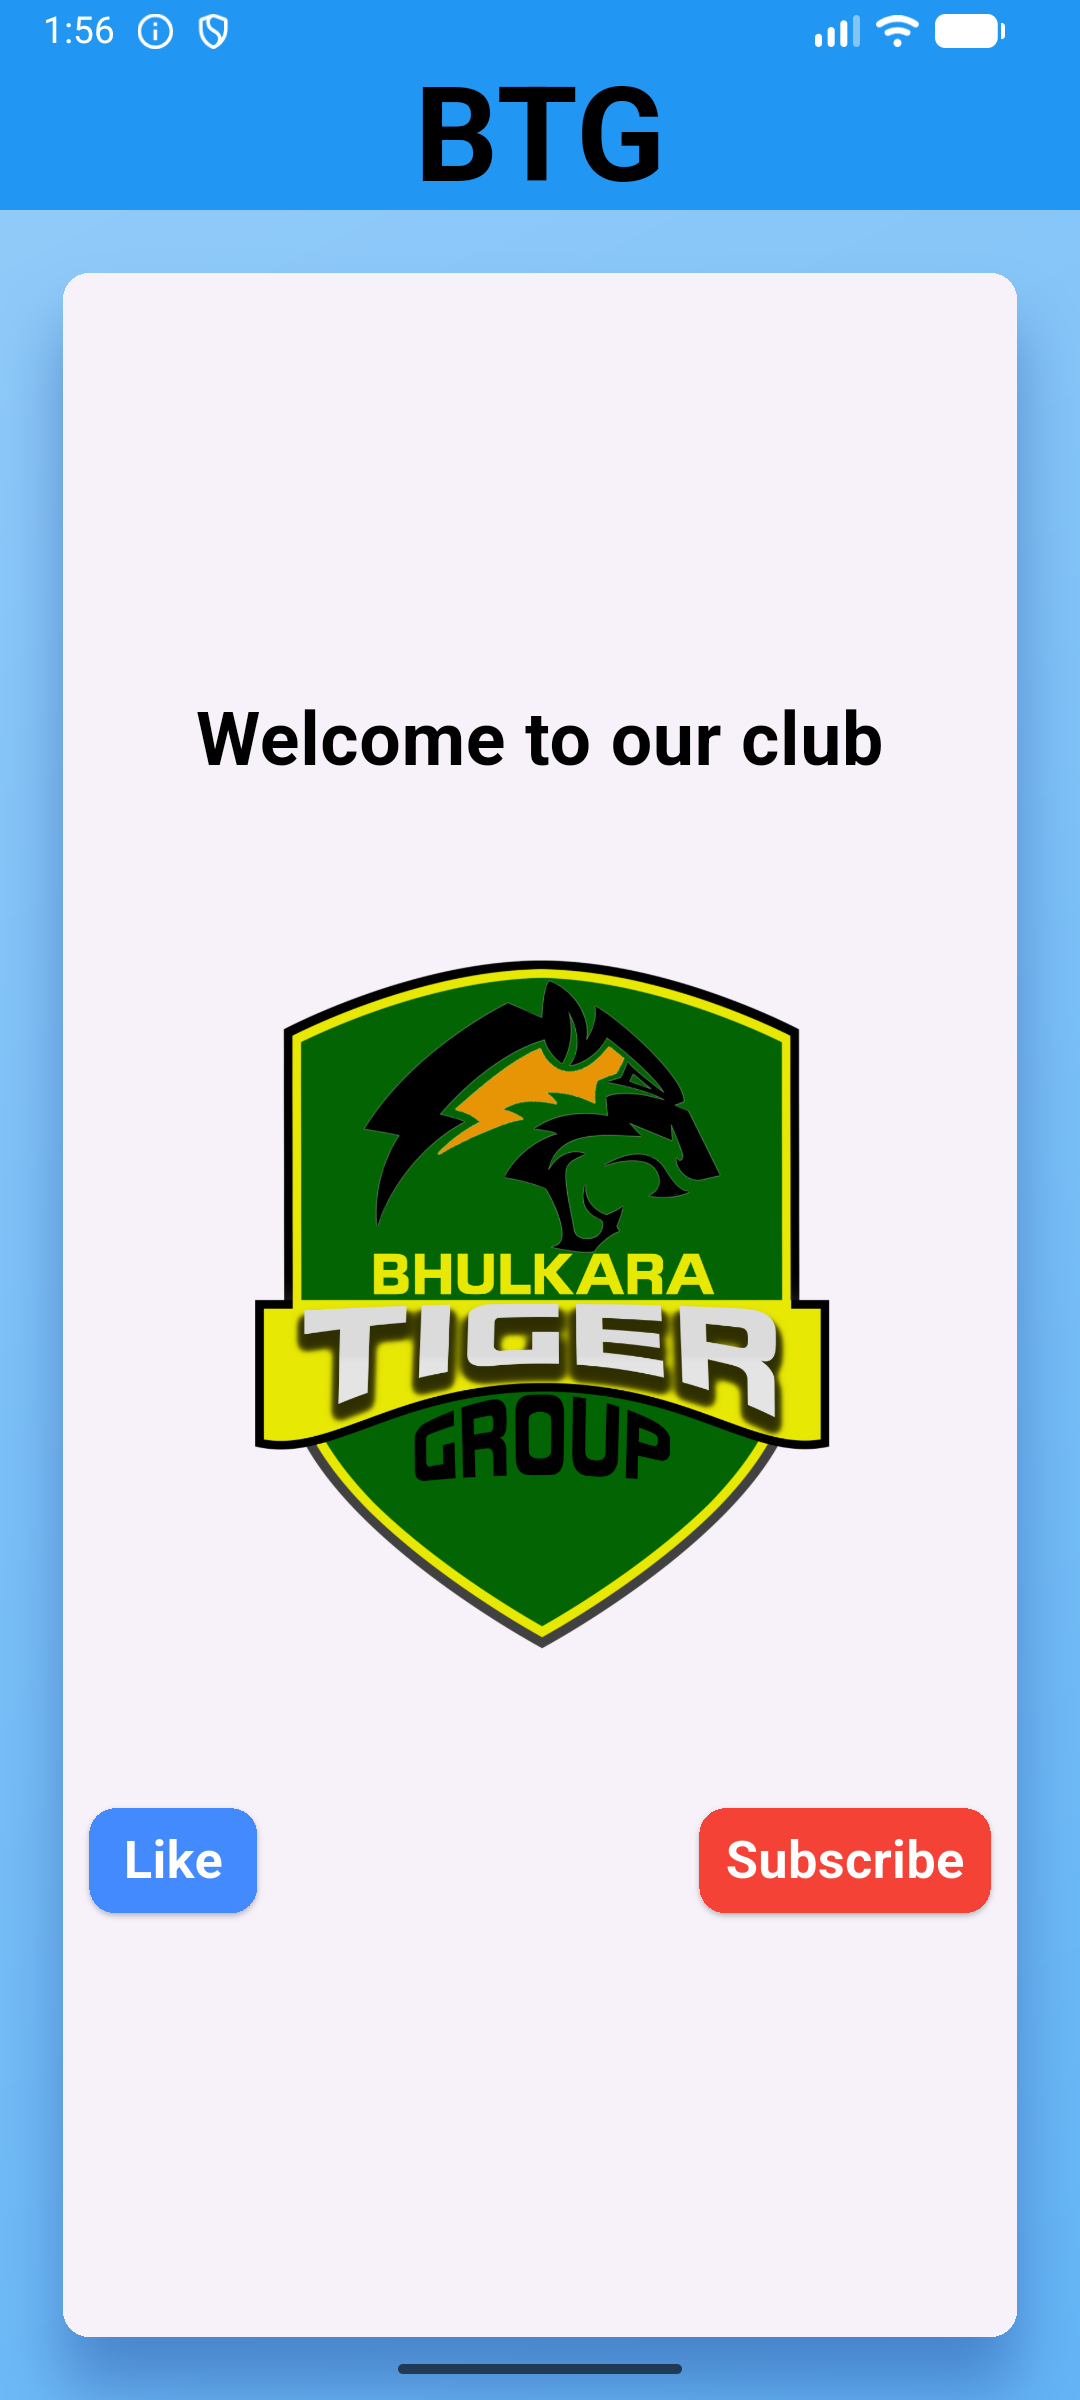
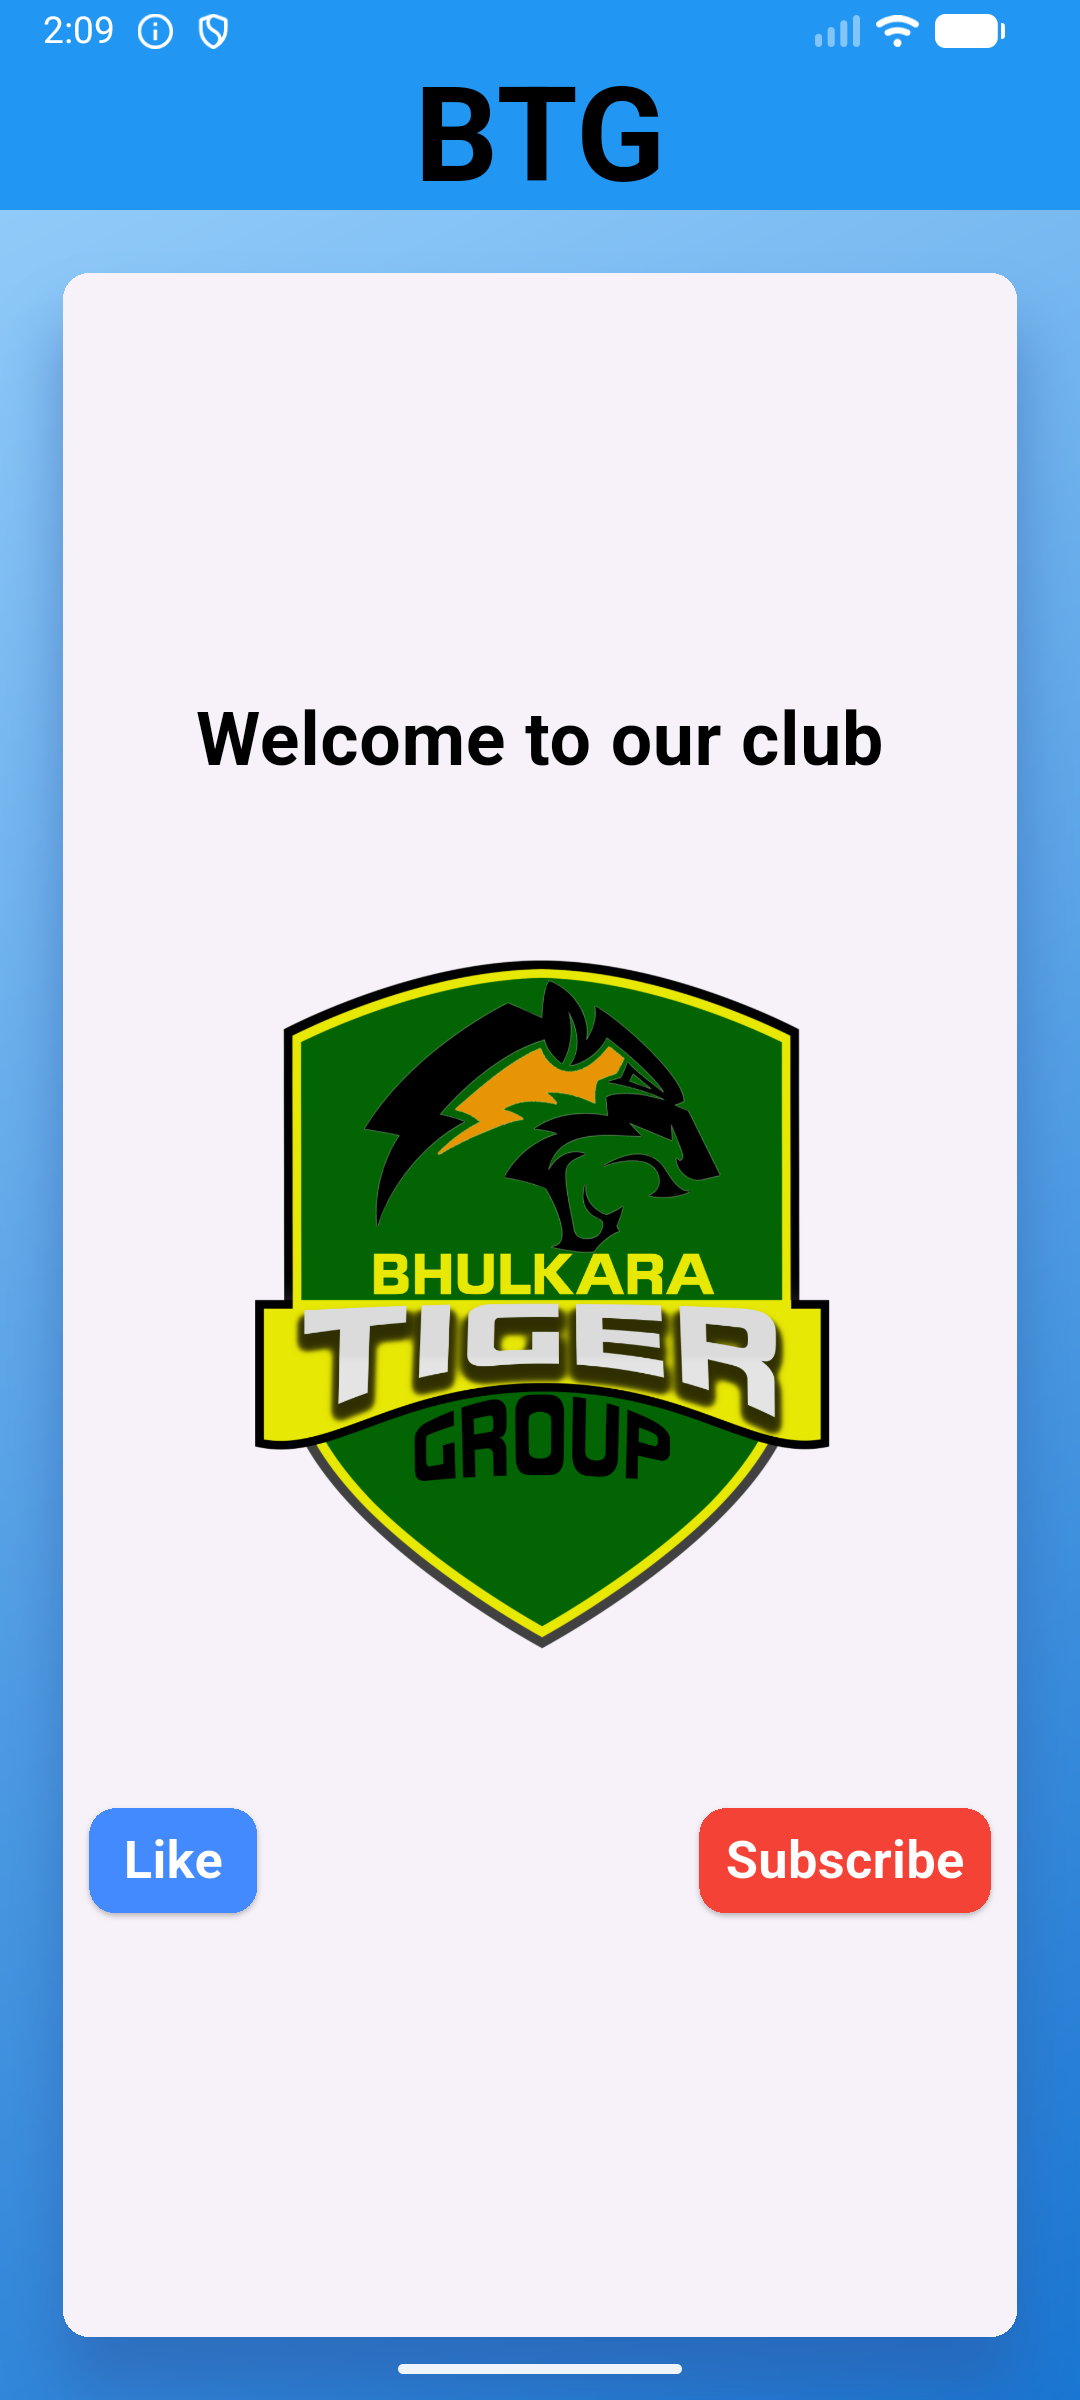
First app

Changed region(s): [[0.0, 0.2188, 1.0, 1.0], [0.0306, 0.0, 0.1222, 0.0312], [0.7639, 0.0, 0.7944, 0.0312]]

diff --git a/lib/main.dart b/lib/main.dart
@@ -39,7 +39,7 @@ class NewWidget extends StatelessWidget {
       body: Container(
         decoration: BoxDecoration(
           gradient: LinearGradient(
-            colors: [Colors.blue.shade200, Colors.blue.shade300],
+            colors: [Colors.blue.shade200, Colors.blue.shade700],
             begin: Alignment.topLeft,
             end: Alignment.bottomRight,
           ),
